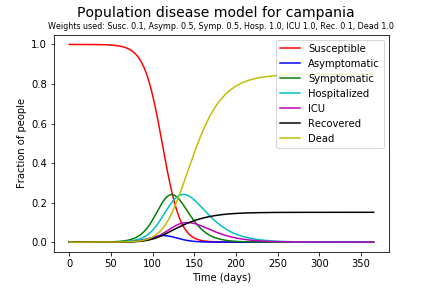
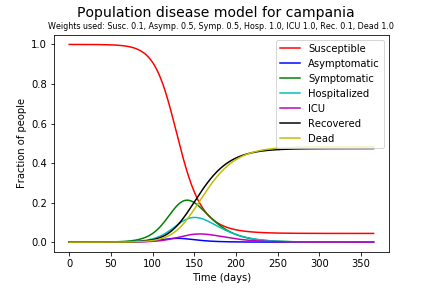
clean-ups

diff --git a/infectionModel_v3.0.py b/infectionModel_v3.0.py
@@ -19,7 +19,7 @@ if not os.path.exists('figures'):
 colors = ['r', 'b', 'g', 'c', 'm', 'k', 'y']
 
 # what country/region?
-country = 'iceland' #pick 'iceland' for Iceland
+country = 'geneve' #pick 'iceland' for Iceland
 datafile = country + '_data.csv'
 parameterfile = country + '_parameters.txt'
 input_dict = file_to_dict(parameterfile) 
